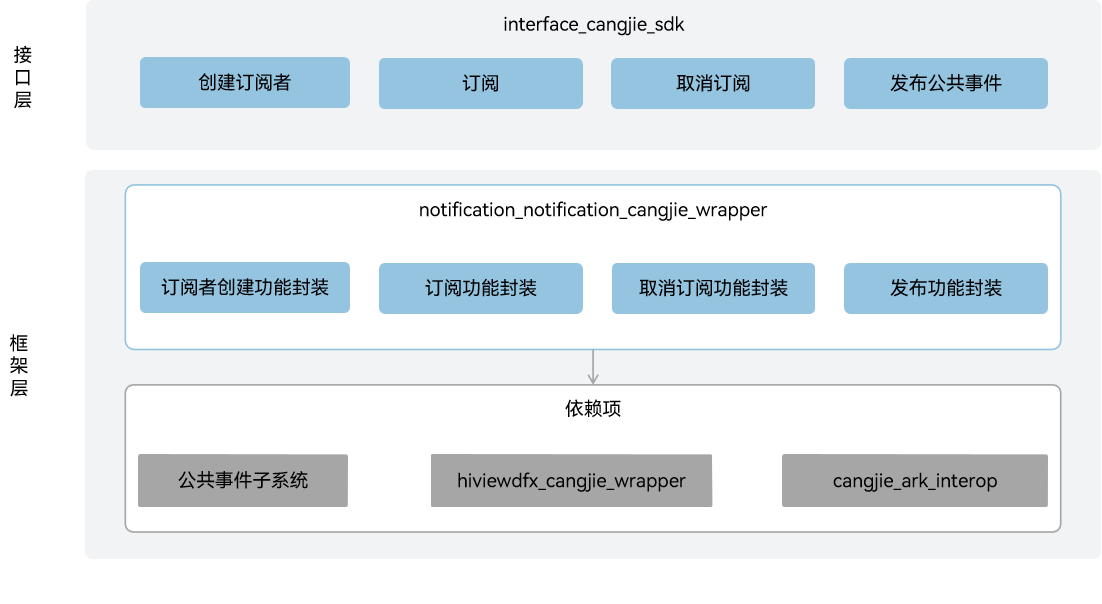
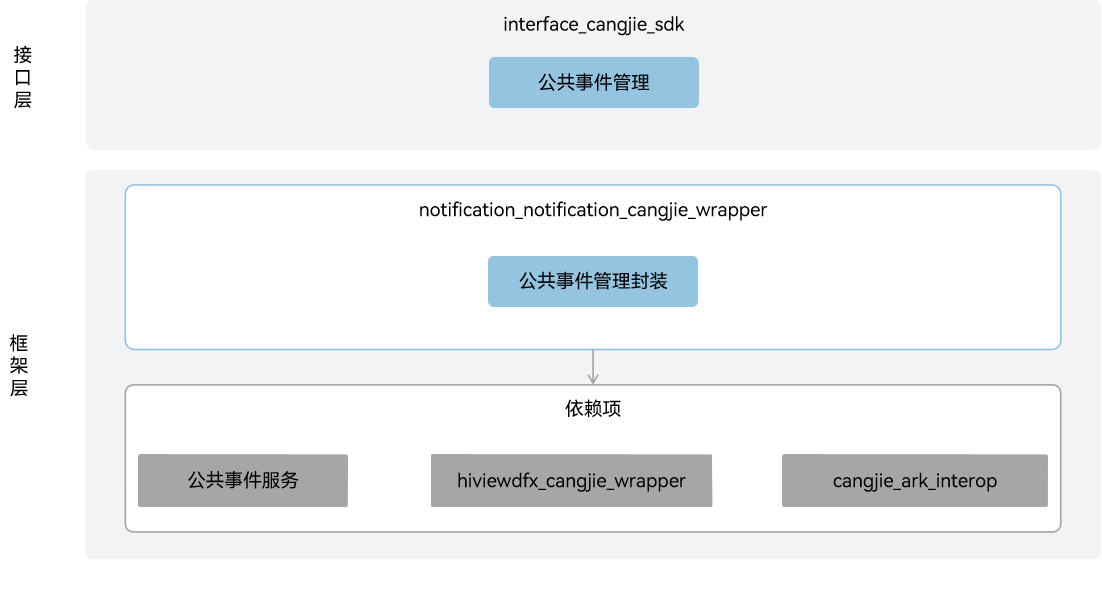
fix readme

diff --git a/README_zh.md b/README_zh.md
@@ -2,7 +2,7 @@
 
 ## 简介
 
-事件通知仓颉封装是在OpenHarmony上面向开发者使用仓颉语言进行应用开发时提供事件通信能力。OpenHarmony通过CES（Common Event Service，公共事件服务）为应用程序提供订阅、发布、退订公共事件的能力。当前开放的事件通知仓颉封装仅支持standard设备。
+事件通知仓颉封装是在OpenHarmony上面向开发者使用仓颉语言进行应用开发时提供公共事件管理能力。OpenHarmony通过CES（Common Event Service，公共事件服务）为应用程序提供订阅、发布、退订公共事件的能力。当前开放的事件通知仓颉封装仅支持standard设备。
 
 公共事件可分为系统公共事件和自定义公共事件。
 
@@ -14,27 +14,25 @@
 
 ## 系统架构
 
-**图 1** 事件通知仓颉架构图
+**图 1** 事件通知仓颉封装架构图
 
-![事件通知仓颉架构图](figures/notification_cangjie_wrapper_architecture_zh.png)
+![事件通知仓颉封装架构图](figures/notification_cangjie_wrapper_architecture_zh.png)
 
-如架构图所示，事件通知仓颉封装提供发布公共事件、创建订阅者、订阅、取消订阅的能力。
+如架构图所示：
 
 接口层：
 
-- 创建订阅者：面向开发者提供根据订阅信息创建公共事件订阅者的能力，其中订阅信息可以指定订阅的公共事件，事件发布者需要具备的权限，以及设定订阅者的优先级等。
-- 订阅：面向开发者提供指定订阅者的订阅操作能力。
-- 取消订阅：面向开发者提供指定订阅者的取消订阅操作能力。
-- 发布公共事件：面向开发者提供发布指定名称与属性的自定义公共事件的能力。
+- 公共事件管理： 面向开发者提供公共事件管理能力，主要包括创建订阅者、订阅、取消订阅、发布公共事件等。
+  - 创建订阅者：面向开发者提供根据订阅信息创建公共事件订阅者的接口能力，其中订阅信息可以指定订阅的公共事件，事件发布者需要具备的权限，以及设定订阅者的优先级等。
+  - 订阅：面向开发者提供指定订阅者的订阅接口能力，用于获取所订阅公共事件的相关信息，及设定公共事件的处理信息。
+  - 取消订阅：面向开发者提供指定订阅者的取消订阅接口能力。
+  - 发布公共事件：面向开发者提供发布指定内容与属性的公共事件的接口能力。
 
 框架层：
-- 订阅者创建功能封装：基于底层公共事件子系统提供的公共事件管理服务实现订阅者管理的封装，实现创建公共事件订阅者的能力，用于获取所接受公共事件的相关信息，及设定公共事件的处理信息。
-- 订阅功能封装：基于底层公共事件子系统提供的公共事件管理服务实现订阅者管理的封装，实现指定订阅者的订阅能力。
-- 取消订阅功能封装：基于底层公共事件子系统提供的公共事件管理服务实现订阅者管理的封装，实现指定订阅者的取消订阅能力。
-- 发布功能封装：基于底层公共事件子系统提供的公共事件管理服务实现订阅者管理的封装，实现发布自定义公共事件的能力。
+- 公共事件管理封装：基于底层公共事件服务实现公共事件管理封装，包括创建订阅者、订阅、发布、退订公共事件的能力。
 
 架构图中依赖部件引入说明：
-- 公共事件子系统：依赖公共事件子系统提供的公共事件管理服务能力，用于框架层能力的实现。
+- 公共事件服务：依赖公共事件服务，用于框架层能力的实现。
 - hiviewdfx_cangjie_wrapper：依赖hiviewdfx_cangjie_wrapper提供的HiLog日志能力，用于在关键路径打印日志。
 - cangjie_ark_interop：依赖cangjie_ark_interop提供的仓颉注解类定义和BusinessException异常类定义，用于对API进行标注，及在错误分支向用户抛出异常。
 
@@ -58,10 +56,7 @@ base/notification/notification_cangjie_wrapper
 
 当前事件通知仓颉封装提供以下功能：
 
-- 发布公共事件。
-- 创建订阅者。
-- 订阅公共事件。
-- 取消订阅。
+- 公共事件管理。
 
 事件通知相关接口请参见[公共事件API文档](https://gitcode.com/openharmony-sig/arkcompiler_cangjie_ark_interop/blob/master/doc/API_Reference/source_zh_cn/apis/BasicServicesKit/cj-apis-common_event_manager.md)，相关开发指导请参见[公共事件开发指南](https://gitcode.com/openharmony-sig/arkcompiler_cangjie_ark_interop/tree/master/doc/Dev_Guide/source_zh_cn/basic-services/common-event)。
 

diff --git a/README.md b/README.md
@@ -2,7 +2,7 @@
 
 ## Introduction
 
-The notification_notification_cangjie_wrapper offers event communication capabilities for developers engaged in application development using the Cangjie programming language. OpenHarmony provides a Common Event Service (CES) for applications to subscribe to, publish, and unsubscribe from common events. The currently open notification_notification_cangjie_wrapper only supports standard devices.
+The notification_notification_cangjie_wrapper provides common event management capabilities for developers using the Cangjie language for application development on OpenHarmony. OpenHarmony provides applications with the ability to subscribe, publish, and unsubscribe from common events through CES (Common Event Service). The currently open notification_notification_cangjie_wrapper only supports standard devices.
 
 Common events can be divided into system common events and custom common events.
 
@@ -21,22 +21,19 @@ Each application can subscribe to common events as needed. If an application sub
 As shown in the architecture diagram, the notification Cangjie API provides the capabilities to publish common events, create subscribers, subscribe, and unsubscribe.
 
 Interface Layer:
-
-- createSubscriber: Provides developers with the capability to create common event subscribers based on subscription information. The subscription information can specify the common events to be subscribed to, the permissions that event publishers must have, and the priority of the subscriber, among other details.
-- subscribe: Provides developers with the capability to perform subscription operations for specified subscribers.
-- unsubscribe: Provides developers with the capability to perform unsubscription operations for specified subscribers.
-- publish: Provides developers with the capability to publish custom common events with specified names and attributes.
+- CommonEventManager: Provides common event management capabilities for developers, including createSubscriber, subscribe, unsubscribe, and publish.
+  - createSubscriber: Provides developers with the interface capability to create common event subscribers based on subscription information, where the subscription information can specify the subscribed common events, permissions required by event publishers, and set the subscriber's priority, etc.
+  - subscribe: Provides developers with the subscription interface capability for specified subscribers, used to obtain relevant information about subscribed common events and set common event processing information.
+  - unsubscribe: Provides developers with the unsubscribe interface capability for specified subscribers.
+  - publish: Provides developers with the interface capability to publish common events with specified content and attributes.
 
 Framework Layer:
 
-- CreateSubscriber Wrapper: Implements the encapsulation of subscriber management based on the common event management service provided by the underlying common event subsystem. It enables the capability to create common event subscribers, which is used to obtain information related to received common events and set processing information for common events.
-- Subscribe Wrapper: Implements the encapsulation of subscriber management based on the common event management service provided by the underlying common event subsystem, enabling the subscription capability for specified subscribers.
-- Unsubscribe Wrapper: Implements the encapsulation of subscriber management based on the common event management service provided by the underlying common event subsystem, enabling the unsubscription capability for specified subscribers.
-- Publish Wrapper: Implements the encapsulation of subscriber management based on the common event management service provided by the underlying common event subsystem, enabling the capability to publish custom common events.
+- CommonEventManager Wrapper: Implements common event management wrapper based on the underlying common event service, including the capabilities to create subscribers, subscribe, publish, and unsubscribe from common events.
 
 Dependency Components Introduction in Architecture:
 
-- common_event_service: Relies on the common event management service capabilities provided by the common event subsystem for the implementation of framework layer capabilities.
+- common_event_service: Depends on the common event service for framework layer capability implementation.
 - hiviewdfx_cangjie_wrapper: Depends on HiLog capabilities for printing logs at key points.
 - cangjie_ark_interop: Depends on APILevel class definitions and BusinessException class definitions for API annotation and throwing exceptions to users in error branches.
 
@@ -60,10 +57,7 @@ base/notification/notification_cangjie_wrapper
 
 The current notification Cangjie API provides the following functions:
 
-- Publish common events.
-- Create subscribers.
-- Subscribe to common events.
-- Unsubscribe.
+- CommonEventManager.
 
 For common event related APIs, please refer to [ohos.common_event_manager](https://gitcode.com/openharmony-sig/arkcompiler_cangjie_ark_interop/blob/master/doc/API_Reference/source_en/apis/BasicServicesKit/cj-apis-common_event_manager.md). For related guidelines, please refer to [Common Event Development Guide](https://gitcode.com/openharmony-sig/arkcompiler_cangjie_ark_interop/tree/master/doc/Dev_Guide/source_en/basic-services/common-event).
 